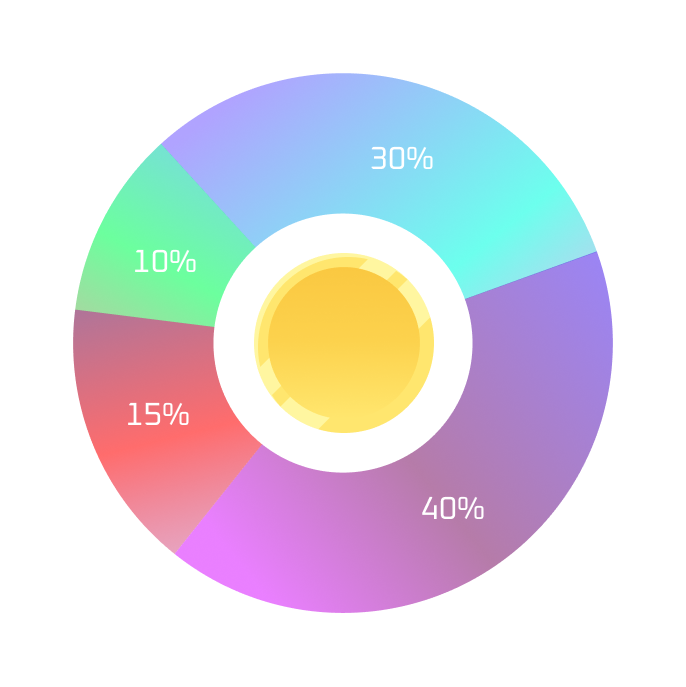
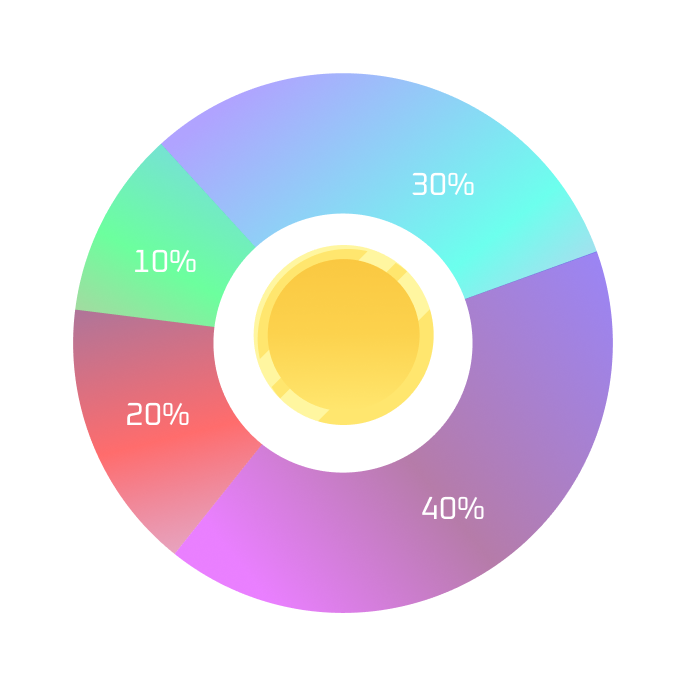
Arafat update Chart

Changed region(s): [[0.3673, 0.3362, 0.6429, 0.6419], [0.551, 0.214, 0.7041, 0.3057], [0.1837, 0.5808, 0.2449, 0.6114]]

diff --git a/src/components/Header.js b/src/components/Header.js
@@ -15,7 +15,7 @@ import i6 from '../assets/images/logo/i6.png';
 
 
 const Header = () => {
-    const [toggle , setToggle ] = useState(false)
+    const [toggle, setToggle] = useState(false)
     useEffect(() => {
         AOS.init();
     }, [])
@@ -26,12 +26,12 @@ const Header = () => {
                     <div className="mobile_logo">
                         <img src={MobileLogo} alt="logo" />
                     </div>
-                    <div className="bars" style={{cursor:'pointer'}} onClick={()=>setToggle(!toggle)}>
+                    <div className="bars" style={{ cursor: 'pointer' }} onClick={() => setToggle(!toggle)}>
                         <span></span>
                         <span></span>
                     </div>
                 </div>
-                <div className= {`mobile_nenu ${toggle && 'open'}`} >
+                <div className={`mobile_nenu ${toggle && 'open'}`} >
                     <div className="hero_top_left">
                         <div className="menu">
                             <ul>
@@ -39,7 +39,7 @@ const Header = () => {
                                     <a href="http://solan-nftmint.com/">nft mINT</a>
                                 </li>
                                 <li>
-                                     <a href="http://staking.solan-verse.io/">Staking</a>
+                                    <a href="http://staking.solan-verse.io/">Staking</a>
                                 </li>
                                 <li>
                                     <a href="http://solan-dapp.com/">DAPP</a>
@@ -144,7 +144,7 @@ const Header = () => {
                             <p data-aos="fade-up" className='mt-3' data-aos-duration="3000">A team of professionals, changing the crypto space through hard work, ingenuity and trust.</p>
                             <div className="button_group">
                                 <a className="btnone" data-aos="fade-up" data-aos-duration="3000" href="#"><img src={i5} alt="" />Buy On Pancakeswap</a>
-                                <a className="btntwo" data-aos="fade-up" data-aos-duration="3000" href="#"><img src={i6} alt="" />Whitepaper</a>
+                                <a className="btntwo" data-aos="fade-up" data-aos-duration="3000" target="_blank" href="https://drive.google.com/file/d/1aIpcSAp3zAvhwC1wjTXb2s9BdpHuuEyG/view?usp=sharing"><img src={i6} alt="" />Whitepaper</a>
                             </div>
                         </div>
                     </div>

diff --git a/src/App.css b/src/App.css
@@ -1265,14 +1265,14 @@ body {
 
 
 @media screen and (max-width: 991px) {
-  .app__section .item1 .app img {
-    height: 135px;
+  .app__section{
+    display: none;
   }
 }
 
 @media screen and (max-width: 320px) {
-  .app__section .item1 .app img {
-    height: 107px;
+  .app__section {
+    display: none;
   }
 
   .app__section .item1 p {

diff --git a/src/components/PieChart.js b/src/components/PieChart.js
@@ -38,7 +38,7 @@ const ChartGraph = () => {
         <div className="chartText-list d-lg-none ">
           <h3>40% liquidity pool</h3>
           <h3>30% staking</h3>
-          <h3>15% development</h3>
+          <h3>20% development</h3>
           <h3>10% nft $ game</h3>
         </div>
       </div>
